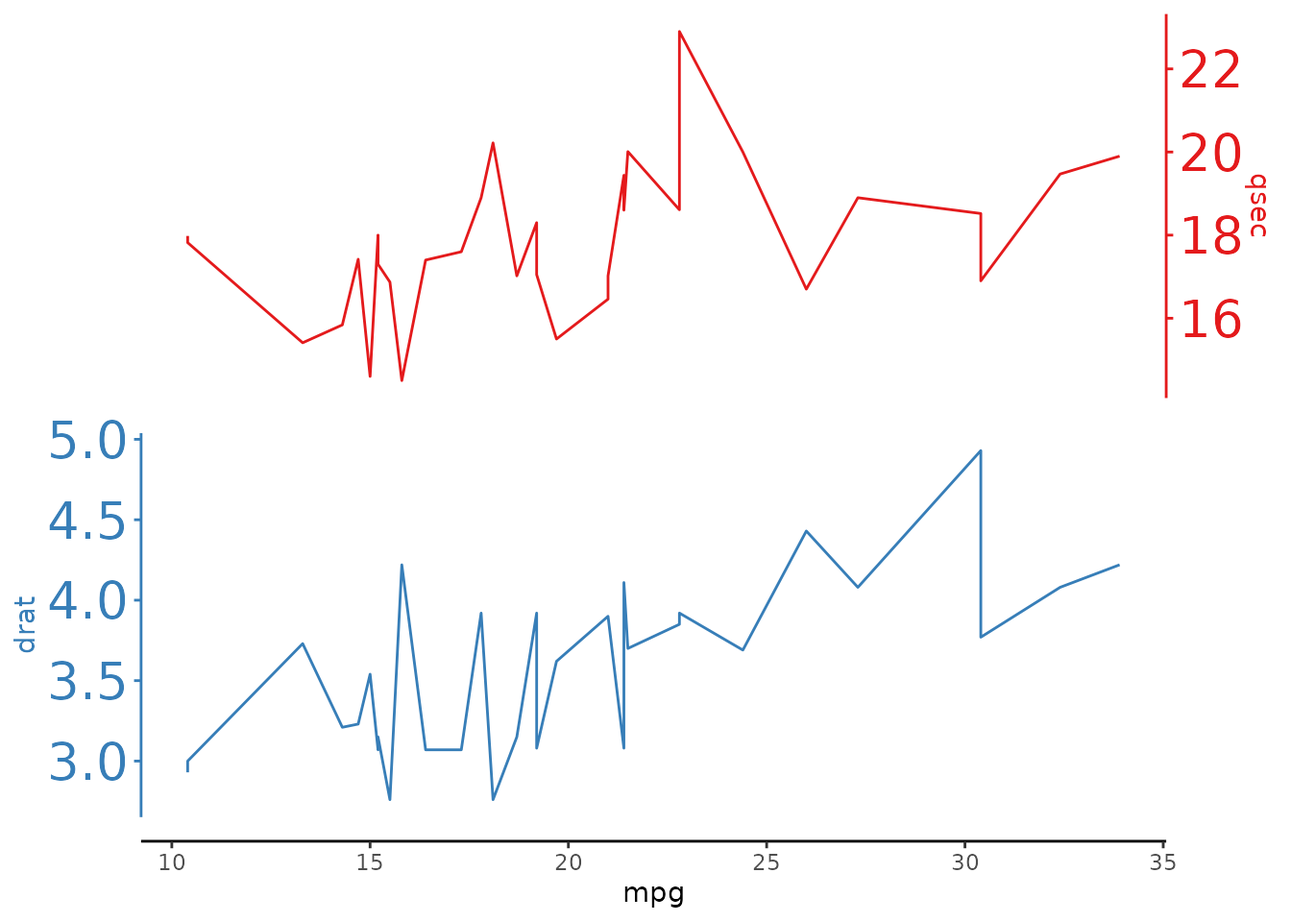
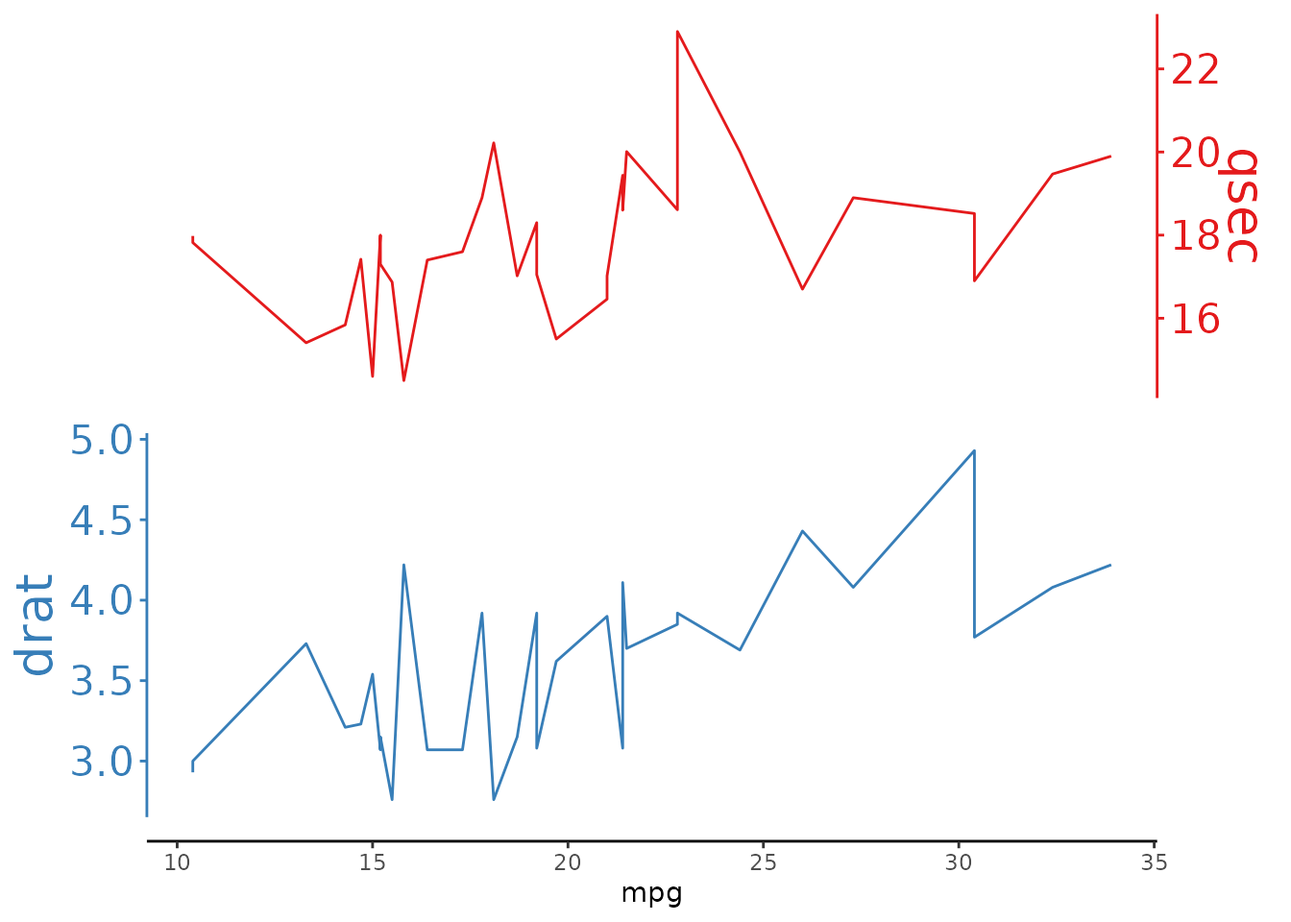
Deploying to gh-pages from @ KopfLab/ggstackplot@70ff9b34c0a76e77210bcc092c1182d34d55c98b 🚀

diff --git a/articles/features.html b/articles/features.html
@@ -26,7 +26,7 @@
     
     <a class="navbar-brand me-2" href="../index.html">ggstackplot</a>
 
-    <small class="nav-text text-muted me-auto" data-bs-toggle="tooltip" data-bs-placement="bottom" title="Released version">0.2.4</small>
+    <small class="nav-text text-muted me-auto" data-bs-toggle="tooltip" data-bs-placement="bottom" title="Released version">0.2.5</small>
 
     
     <button class="navbar-toggler" type="button" data-bs-toggle="collapse" data-bs-target="#navbar" aria-controls="navbar" aria-expanded="false" aria-label="Toggle navigation">
@@ -80,7 +80,7 @@
 <div class="sourceCode" id="cb1"><pre class="downlit sourceCode r">
 <code class="sourceCode R"><span><span class="kw"><a href="https://rdrr.io/r/base/library.html" class="external-link">library</a></span><span class="op">(</span><span class="va">ggstackplot</span><span class="op">)</span></span></code></pre></div>
 <div class="section level2">
-<h2 id="arguments">Arguments<a class="anchor" aria-label="anchor" href="#arguments"></a>
+<h2 id="main-arguments">Main Arguments<a class="anchor" aria-label="anchor" href="#main-arguments"></a>
 </h2>
 <div class="section level3">
 <h3 id="x-and-y-arguments">
@@ -334,15 +334,16 @@
 <h3 id="shared_axis_size-argument">
 <code>shared_axis_size</code> argument<a class="anchor" aria-label="anchor" href="#shared_axis_size-argument"></a>
 </h3>
-<p>The size of the shared axis needs to be adjusted depending on which
-aspect ratio is intended.</p>
+<p>The size of the shared axis often needs to be adjusted depending on
+which aspect ratio is intended. It is defined as fraction of a full
+panel.</p>
 <div class="sourceCode" id="cb23"><pre class="downlit sourceCode r">
 <code class="sourceCode R"><span><span class="va">mtcars</span> <span class="op">|&gt;</span> </span>
 <span>  <span class="fu"><a href="../reference/ggstackplot.html">ggstackplot</a></span><span class="op">(</span></span>
 <span>    x <span class="op">=</span> <span class="va">mpg</span>, y <span class="op">=</span> <span class="fu"><a href="https://rdrr.io/r/base/c.html" class="external-link">c</a></span><span class="op">(</span><span class="va">qsec</span>, <span class="va">drat</span><span class="op">)</span>,</span>
 <span>    color <span class="op">=</span> <span class="fu"><a href="https://rdrr.io/r/base/c.html" class="external-link">c</a></span><span class="op">(</span><span class="st">"#E41A1C"</span>, <span class="st">"#377EB8"</span><span class="op">)</span>,</span>
 <span>    overlap <span class="op">=</span> <span class="fl">1</span>,</span>
-<span>    <span class="co"># can be smaller because we're not actually stacking but overlapping</span></span>
+<span>    <span class="co"># can be only 10% of a plot size as we're overlapping plots</span></span>
 <span>    shared_axis_size <span class="op">=</span> <span class="fl">0.1</span></span>
 <span>  <span class="op">)</span></span></code></pre></div>
 <p><img src="features_files/figure-html/unnamed-chunk-12-1.png" width="672"></p>
@@ -360,25 +361,36 @@ aspect ratio is intended.</p>
 <span>    simplify_shared_axis <span class="op">=</span> <span class="cn">FALSE</span></span>
 <span>  <span class="op">)</span></span></code></pre></div>
 <p><img src="features_files/figure-html/unnamed-chunk-13-1.png" width="672"></p>
+<div class="sourceCode" id="cb25"><pre class="downlit sourceCode r">
+<code class="sourceCode R"><span></span>
+<span><span class="co"># also goes well with changing `both_axes`, `switch_axes` and/or `alternate_axes`</span></span>
+<span><span class="va">mtcars</span> <span class="op">|&gt;</span> </span>
+<span>  <span class="fu"><a href="../reference/ggstackplot.html">ggstackplot</a></span><span class="op">(</span></span>
+<span>    x <span class="op">=</span> <span class="va">mpg</span>, y <span class="op">=</span> <span class="fu"><a href="https://rdrr.io/r/base/c.html" class="external-link">c</a></span><span class="op">(</span><span class="va">qsec</span>, <span class="va">drat</span><span class="op">)</span>,</span>
+<span>    color <span class="op">=</span> <span class="fu"><a href="https://rdrr.io/r/base/c.html" class="external-link">c</a></span><span class="op">(</span><span class="st">"#E41A1C"</span>, <span class="st">"#377EB8"</span><span class="op">)</span>,</span>
+<span>    simplify_shared_axis <span class="op">=</span> <span class="cn">FALSE</span>,</span>
+<span>    alternate_axes <span class="op">=</span> <span class="cn">FALSE</span></span>
+<span>  <span class="op">)</span></span></code></pre></div>
+<p><img src="features_files/figure-html/unnamed-chunk-13-2.png" width="672"></p>
 </div>
-<div class="section level3">
-<h3 id="template-argument">
-<code>template</code> argument<a class="anchor" aria-label="anchor" href="#template-argument"></a>
-</h3>
+</div>
+<div class="section level2">
+<h2 id="the-template-argument">The <code>template</code> argument<a class="anchor" aria-label="anchor" href="#the-template-argument"></a>
+</h2>
 <p>This is the most powerful argument. It defines which ggplot to use as
 the template for all plots in the stack. This can be an actual plot
 (just the data will be replaced) or a ggplot that doesn’t have data
 associated yet. The possibilities are pretty much endless. Just make
 sure to always add the <code>theme_stacked_plot()</code> base theme (you
 can modify it more from there on). A few examples below:</p>
-<div class="section level4">
-<h4 id="theme-modifications">theme modifications<a class="anchor" aria-label="anchor" href="#theme-modifications"></a>
-</h4>
+<div class="section level3">
+<h3 id="theme-modifications">theme modifications<a class="anchor" aria-label="anchor" href="#theme-modifications"></a>
+</h3>
 <p>Add any modification to the overlying theme as you see fit.</p>
-<div class="sourceCode" id="cb25"><pre class="downlit sourceCode r">
+<div class="sourceCode" id="cb26"><pre class="downlit sourceCode r">
 <code class="sourceCode R"><span><span class="kw"><a href="https://rdrr.io/r/base/library.html" class="external-link">library</a></span><span class="op">(</span><span class="va"><a href="https://ggplot2.tidyverse.org" class="external-link">ggplot2</a></span><span class="op">)</span></span>
 <span></span>
-<span><span class="co"># increase y axis test sizetext size</span></span>
+<span><span class="co"># increase y axis text size</span></span>
 <span><span class="va">mtcars</span> <span class="op">|&gt;</span></span>
 <span>  <span class="fu"><a href="../reference/ggstackplot.html">ggstackplot</a></span><span class="op">(</span></span>
 <span>    x <span class="op">=</span> <span class="va">mpg</span>, y <span class="op">=</span> <span class="fu"><a href="https://rdrr.io/r/base/c.html" class="external-link">c</a></span><span class="op">(</span><span class="va">qsec</span>, <span class="va">drat</span><span class="op">)</span>,</span>
@@ -387,16 +399,36 @@ can modify it more from there on). A few examples below:</p>
 <span>      <span class="fu"><a href="https://ggplot2.tidyverse.org/reference/ggplot.html" class="external-link">ggplot</a></span><span class="op">(</span><span class="op">)</span> <span class="op">+</span> </span>
 <span>      <span class="fu"><a href="https://ggplot2.tidyverse.org/reference/geom_path.html" class="external-link">geom_line</a></span><span class="op">(</span><span class="op">)</span> <span class="op">+</span></span>
 <span>      <span class="fu"><a href="../reference/theme_stackplot.html">theme_stackplot</a></span><span class="op">(</span><span class="op">)</span> <span class="op">+</span></span>
-<span>      <span class="fu"><a href="https://ggplot2.tidyverse.org/reference/theme.html" class="external-link">theme</a></span><span class="op">(</span>axis.text.y <span class="op">=</span> <span class="fu"><a href="https://ggplot2.tidyverse.org/reference/element.html" class="external-link">element_text</a></span><span class="op">(</span>size <span class="op">=</span> <span class="fl">20</span><span class="op">)</span><span class="op">)</span></span>
+<span>      <span class="fu"><a href="https://ggplot2.tidyverse.org/reference/theme.html" class="external-link">theme</a></span><span class="op">(</span></span>
+<span>        axis.title.y <span class="op">=</span> <span class="fu"><a href="https://ggplot2.tidyverse.org/reference/element.html" class="external-link">element_text</a></span><span class="op">(</span>size <span class="op">=</span> <span class="fl">20</span><span class="op">)</span>,</span>
+<span>        axis.text.y <span class="op">=</span> <span class="fu"><a href="https://ggplot2.tidyverse.org/reference/element.html" class="external-link">element_text</a></span><span class="op">(</span>size <span class="op">=</span> <span class="fl">16</span><span class="op">)</span></span>
+<span>      <span class="op">)</span></span>
 <span>  <span class="op">)</span></span></code></pre></div>
 <p><img src="features_files/figure-html/unnamed-chunk-14-1.png" width="672"></p>
+<div class="sourceCode" id="cb27"><pre class="downlit sourceCode r">
+<code class="sourceCode R"><span></span>
+<span><span class="co"># increase the panel margins</span></span>
+<span><span class="va">mtcars</span> <span class="op">|&gt;</span></span>
+<span>  <span class="fu"><a href="../reference/ggstackplot.html">ggstackplot</a></span><span class="op">(</span></span>
+<span>    x <span class="op">=</span> <span class="va">mpg</span>, y <span class="op">=</span> <span class="fu"><a href="https://rdrr.io/r/base/c.html" class="external-link">c</a></span><span class="op">(</span><span class="va">qsec</span>, <span class="va">drat</span><span class="op">)</span>,</span>
+<span>    color <span class="op">=</span> <span class="fu"><a href="https://rdrr.io/r/base/c.html" class="external-link">c</a></span><span class="op">(</span><span class="st">"#E41A1C"</span>, <span class="st">"#377EB8"</span><span class="op">)</span>,</span>
+<span>    template <span class="op">=</span> </span>
+<span>      <span class="fu"><a href="https://ggplot2.tidyverse.org/reference/ggplot.html" class="external-link">ggplot</a></span><span class="op">(</span><span class="op">)</span> <span class="op">+</span> </span>
+<span>      <span class="fu"><a href="https://ggplot2.tidyverse.org/reference/geom_path.html" class="external-link">geom_line</a></span><span class="op">(</span><span class="op">)</span> <span class="op">+</span></span>
+<span>      <span class="fu"><a href="../reference/theme_stackplot.html">theme_stackplot</a></span><span class="op">(</span><span class="op">)</span> <span class="op">+</span></span>
+<span>      <span class="fu"><a href="https://ggplot2.tidyverse.org/reference/theme.html" class="external-link">theme</a></span><span class="op">(</span></span>
+<span>        <span class="co"># increase left margin to 20% and top/bottom margins to 10%</span></span>
+<span>        plot.margin <span class="op">=</span> <span class="fu"><a href="https://ggplot2.tidyverse.org/reference/element.html" class="external-link">margin</a></span><span class="op">(</span>l <span class="op">=</span> <span class="fl">0.2</span>, t <span class="op">=</span> <span class="fl">0.1</span>, b <span class="op">=</span> <span class="fl">0.1</span>, unit <span class="op">=</span> <span class="st">"npc"</span><span class="op">)</span></span>
+<span>      <span class="op">)</span></span>
+<span>  <span class="op">)</span></span></code></pre></div>
+<p><img src="features_files/figure-html/unnamed-chunk-14-2.png" width="672"></p>
 </div>
-<div class="section level4">
-<h4 id="custom-geom-data">custom geom data<a class="anchor" aria-label="anchor" href="#custom-geom-data"></a>
-</h4>
-<div class="sourceCode" id="cb26"><pre class="downlit sourceCode r">
+<div class="section level3">
+<h3 id="custom-geom-data">custom geom data<a class="anchor" aria-label="anchor" href="#custom-geom-data"></a>
+</h3>
+<div class="sourceCode" id="cb28"><pre class="downlit sourceCode r">
 <code class="sourceCode R"><span><span class="co"># use different geoms for different panels</span></span>
-<span><span class="co"># you can refer to y-stack panel variables with `.yvar`</span></span>
+<span><span class="co"># you can refer to y-stack panel variables with `.yvar` and x-stack panel variables with `.xvar`</span></span>
 <span><span class="va">mtcars</span> <span class="op">|&gt;</span></span>
 <span>  <span class="fu"><a href="../reference/ggstackplot.html">ggstackplot</a></span><span class="op">(</span></span>
 <span>    x <span class="op">=</span> <span class="va">mpg</span>, y <span class="op">=</span> <span class="fu"><a href="https://rdrr.io/r/base/c.html" class="external-link">c</a></span><span class="op">(</span><span class="va">qsec</span>, <span class="va">drat</span><span class="op">)</span>,</span>
@@ -409,10 +441,10 @@ can modify it more from there on). A few examples below:</p>
 <span>  <span class="op">)</span></span></code></pre></div>
 <p><img src="features_files/figure-html/unnamed-chunk-15-1.png" width="672"></p>
 </div>
-<div class="section level4">
-<h4 id="additional-plot-elements">additional plot elements<a class="anchor" aria-label="anchor" href="#additional-plot-elements"></a>
-</h4>
-<div class="sourceCode" id="cb27"><pre class="downlit sourceCode r">
+<div class="section level3">
+<h3 id="additional-plot-elements">additional plot elements<a class="anchor" aria-label="anchor" href="#additional-plot-elements"></a>
+</h3>
+<div class="sourceCode" id="cb29"><pre class="downlit sourceCode r">
 <code class="sourceCode R"><span><span class="co"># add some vertical bars</span></span>
 <span><span class="va">mtcars</span> <span class="op">|&gt;</span></span>
 <span>  <span class="fu"><a href="../reference/ggstackplot.html">ggstackplot</a></span><span class="op">(</span></span>
@@ -427,11 +459,11 @@ can modify it more from there on). A few examples below:</p>
 <span>  <span class="op">)</span></span></code></pre></div>
 <p><img src="features_files/figure-html/unnamed-chunk-16-1.png" width="672"></p>
 </div>
-<div class="section level4">
-<h4 id="axis-modifications">axis modifications<a class="anchor" aria-label="anchor" href="#axis-modifications"></a>
-</h4>
-<div class="sourceCode" id="cb28"><pre class="downlit sourceCode r">
-<code class="sourceCode R"><span><span class="co"># secondary x axis (can be the same with dup_axis() or more specific, e.g.:)</span></span>
+<div class="section level3">
+<h3 id="axis-modifications">axis modifications<a class="anchor" aria-label="anchor" href="#axis-modifications"></a>
+</h3>
+<div class="sourceCode" id="cb30"><pre class="downlit sourceCode r">
+<code class="sourceCode R"><span><span class="co"># add secondary x axis</span></span>
 <span><span class="va">mtcars</span> <span class="op">|&gt;</span></span>
 <span>  <span class="fu"><a href="../reference/ggstackplot.html">ggstackplot</a></span><span class="op">(</span></span>
 <span>    x <span class="op">=</span> <span class="va">mpg</span>, y <span class="op">=</span> <span class="fu"><a href="https://rdrr.io/r/base/c.html" class="external-link">c</a></span><span class="op">(</span><span class="va">qsec</span>, <span class="va">drat</span><span class="op">)</span>,</span>
@@ -442,6 +474,9 @@ can modify it more from there on). A few examples below:</p>
 <span>      <span class="fu"><a href="https://ggplot2.tidyverse.org/reference/ggplot.html" class="external-link">ggplot</a></span><span class="op">(</span><span class="op">)</span> <span class="op">+</span> </span>
 <span>      <span class="fu"><a href="https://ggplot2.tidyverse.org/reference/geom_path.html" class="external-link">geom_line</a></span><span class="op">(</span><span class="op">)</span> <span class="op">+</span></span>
 <span>      <span class="fu"><a href="https://ggplot2.tidyverse.org/reference/scale_continuous.html" class="external-link">scale_x_continuous</a></span><span class="op">(</span></span>
+<span>        <span class="co"># change axis name</span></span>
+<span>        name <span class="op">=</span> <span class="st">"this is my elaborate\nmpg axis"</span>,</span>
+<span>        <span class="co"># this can be the same with dup_axis() or as here have a transformed axis</span></span>
 <span>        sec.axis <span class="op">=</span> <span class="fu"><a href="https://ggplot2.tidyverse.org/reference/sec_axis.html" class="external-link">sec_axis</a></span><span class="op">(</span></span>
 <span>          trans <span class="op">=</span> <span class="va">sqrt</span>, </span>
 <span>          name <span class="op">=</span> <span class="fu"><a href="https://rdrr.io/r/base/expression.html" class="external-link">expression</a></span><span class="op">(</span><span class="fu"><a href="https://rdrr.io/r/base/MathFun.html" class="external-link">sqrt</a></span><span class="op">(</span><span class="va">mpg</span><span class="op">)</span><span class="op">)</span>, </span>
@@ -452,12 +487,30 @@ can modify it more from there on). A few examples below:</p>
 <span>  <span class="op">)</span></span></code></pre></div>
 <p><img src="features_files/figure-html/unnamed-chunk-17-1.png" width="672"></p>
 </div>
+<div class="section level3">
+<h3 id="additional-aesthetics">additional aesthetics<a class="anchor" aria-label="anchor" href="#additional-aesthetics"></a>
+</h3>
+<div class="sourceCode" id="cb31"><pre class="downlit sourceCode r">
+<code class="sourceCode R"><span><span class="co"># add aesthetics to the plot</span></span>
+<span><span class="va">mtcars</span> <span class="op">|&gt;</span></span>
+<span>  <span class="fu"><a href="../reference/ggstackplot.html">ggstackplot</a></span><span class="op">(</span></span>
+<span>    x <span class="op">=</span> <span class="va">mpg</span>,  y <span class="op">=</span> <span class="fu"><a href="https://rdrr.io/r/base/c.html" class="external-link">c</a></span><span class="op">(</span><span class="va">wt</span>, <span class="va">qsec</span>, <span class="va">drat</span><span class="op">)</span>,</span>
+<span>    alternate_axes <span class="op">=</span> <span class="cn">FALSE</span>,</span>
+<span>    template <span class="op">=</span> </span>
+<span>      <span class="fu"><a href="https://ggplot2.tidyverse.org/reference/ggplot.html" class="external-link">ggplot</a></span><span class="op">(</span><span class="op">)</span> <span class="op">+</span></span>
+<span>      <span class="fu"><a href="https://ggplot2.tidyverse.org/reference/aes.html" class="external-link">aes</a></span><span class="op">(</span>color <span class="op">=</span> <span class="fu"><a href="https://rdrr.io/r/base/factor.html" class="external-link">factor</a></span><span class="op">(</span><span class="va">cyl</span><span class="op">)</span>, linetype <span class="op">=</span> <span class="fu"><a href="https://rdrr.io/r/base/factor.html" class="external-link">factor</a></span><span class="op">(</span><span class="va">cyl</span><span class="op">)</span>, shape <span class="op">=</span> <span class="fu"><a href="https://rdrr.io/r/base/factor.html" class="external-link">factor</a></span><span class="op">(</span><span class="va">cyl</span><span class="op">)</span><span class="op">)</span> <span class="op">+</span></span>
+<span>      <span class="fu"><a href="https://ggplot2.tidyverse.org/reference/geom_path.html" class="external-link">geom_line</a></span><span class="op">(</span><span class="op">)</span> <span class="op">+</span></span>
+<span>      <span class="fu"><a href="https://ggplot2.tidyverse.org/reference/geom_point.html" class="external-link">geom_point</a></span><span class="op">(</span>size <span class="op">=</span> <span class="fl">3</span><span class="op">)</span> <span class="op">+</span></span>
+<span>      <span class="fu"><a href="https://ggplot2.tidyverse.org/reference/ggtheme.html" class="external-link">theme_bw</a></span><span class="op">(</span><span class="op">)</span> <span class="op">+</span></span>
+<span>      <span class="fu"><a href="../reference/theme_stackplot.html">theme_stackplot</a></span><span class="op">(</span><span class="op">)</span> </span>
+<span>  <span class="op">)</span></span></code></pre></div>
+<p><img src="features_files/figure-html/unnamed-chunk-18-1.png" width="672"></p>
 </div>
 </div>
 <div class="section level2">
 <h2 id="advanced-features">Advanced features<a class="anchor" aria-label="anchor" href="#advanced-features"></a>
 </h2>
-<div class="sourceCode" id="cb29"><pre class="downlit sourceCode r">
+<div class="sourceCode" id="cb32"><pre class="downlit sourceCode r">
 <code class="sourceCode R"><span><span class="co"># TODO: add example of custom prepare_stackplot, then modify, then assemble_stackpllot</span></span></code></pre></div>
 </div>
   </main><aside class="col-md-3"><nav id="toc"><h2>On this page</h2>

diff --git a/authors.html b/authors.html
@@ -10,7 +10,7 @@
     
     <a class="navbar-brand me-2" href="index.html">ggstackplot</a>
 
-    <small class="nav-text text-muted me-auto" data-bs-toggle="tooltip" data-bs-placement="bottom" title="Released version">0.2.4</small>
+    <small class="nav-text text-muted me-auto" data-bs-toggle="tooltip" data-bs-placement="bottom" title="Released version">0.2.5</small>
 
     
     <button class="navbar-toggler" type="button" data-bs-toggle="collapse" data-bs-target="#navbar" aria-controls="navbar" aria-expanded="false" aria-label="Toggle navigation">
@@ -73,13 +73,13 @@
 
       <p>Kopf S, Caro T, McFarlin J, Raberg J (2023).
 <em>ggstackplot: Create overlapping stacked ggplots</em>.
-R package version 0.2.4. 
+R package version 0.2.5. 
 </p>
       <pre>@Manual{,
   title = {ggstackplot: Create overlapping stacked ggplots},
   author = {Sebastian Kopf and Tristan Caro and Jamie McFarlin and Jon Raberg},
   year = {2023},
-  note = {R package version 0.2.4},
+  note = {R package version 0.2.5},
 }</pre>
     </div>
   </main><aside class="col-md-3"><nav id="toc"><h2>On this page</h2>

diff --git a/reference/tidyeval.html b/reference/tidyeval.html
@@ -160,7 +160,7 @@ because it throws an error if the input is not a name as expected.
     
     <a class="navbar-brand me-2" href="../index.html">ggstackplot</a>
 
-    <small class="nav-text text-muted me-auto" data-bs-toggle="tooltip" data-bs-placement="bottom" title="Released version">0.2.4</small>
+    <small class="nav-text text-muted me-auto" data-bs-toggle="tooltip" data-bs-placement="bottom" title="Released version">0.2.5</small>
 
     
     <button class="navbar-toggler" type="button" data-bs-toggle="collapse" data-bs-target="#navbar" aria-controls="navbar" aria-expanded="false" aria-label="Toggle navigation">

diff --git a/404.html b/404.html
@@ -24,7 +24,7 @@
     
     <a class="navbar-brand me-2" href="https://ggstackplot.kopflab.org/index.html">ggstackplot</a>
 
-    <small class="nav-text text-muted me-auto" data-bs-toggle="tooltip" data-bs-placement="bottom" title="Released version">0.2.4</small>
+    <small class="nav-text text-muted me-auto" data-bs-toggle="tooltip" data-bs-placement="bottom" title="Released version">0.2.5</small>
 
     
     <button class="navbar-toggler" type="button" data-bs-toggle="collapse" data-bs-target="#navbar" aria-controls="navbar" aria-expanded="false" aria-label="Toggle navigation">

diff --git a/articles/examples.html b/articles/examples.html
@@ -26,7 +26,7 @@
     
     <a class="navbar-brand me-2" href="../index.html">ggstackplot</a>
 
-    <small class="nav-text text-muted me-auto" data-bs-toggle="tooltip" data-bs-placement="bottom" title="Released version">0.2.4</small>
+    <small class="nav-text text-muted me-auto" data-bs-toggle="tooltip" data-bs-placement="bottom" title="Released version">0.2.5</small>
 
     
     <button class="navbar-toggler" type="button" data-bs-toggle="collapse" data-bs-target="#navbar" aria-controls="navbar" aria-expanded="false" aria-label="Toggle navigation">

diff --git a/articles/index.html b/articles/index.html
@@ -10,7 +10,7 @@
     
     <a class="navbar-brand me-2" href="../index.html">ggstackplot</a>
 
-    <small class="nav-text text-muted me-auto" data-bs-toggle="tooltip" data-bs-placement="bottom" title="Released version">0.2.4</small>
+    <small class="nav-text text-muted me-auto" data-bs-toggle="tooltip" data-bs-placement="bottom" title="Released version">0.2.5</small>
 
     
     <button class="navbar-toggler" type="button" data-bs-toggle="collapse" data-bs-target="#navbar" aria-controls="navbar" aria-expanded="false" aria-label="Toggle navigation">

diff --git a/news/index.html b/news/index.html
@@ -10,7 +10,7 @@
     
     <a class="navbar-brand me-2" href="../index.html">ggstackplot</a>
 
-    <small class="nav-text text-muted me-auto" data-bs-toggle="tooltip" data-bs-placement="bottom" title="Released version">0.2.4</small>
+    <small class="nav-text text-muted me-auto" data-bs-toggle="tooltip" data-bs-placement="bottom" title="Released version">0.2.5</small>
 
     
     <button class="navbar-toggler" type="button" data-bs-toggle="collapse" data-bs-target="#navbar" aria-controls="navbar" aria-expanded="false" aria-label="Toggle navigation">

diff --git a/reference/ggstackplot-package.html b/reference/ggstackplot-package.html
@@ -10,7 +10,7 @@
     
     <a class="navbar-brand me-2" href="../index.html">ggstackplot</a>
 
-    <small class="nav-text text-muted me-auto" data-bs-toggle="tooltip" data-bs-placement="bottom" title="Released version">0.2.4</small>
+    <small class="nav-text text-muted me-auto" data-bs-toggle="tooltip" data-bs-placement="bottom" title="Released version">0.2.5</small>
 
     
     <button class="navbar-toggler" type="button" data-bs-toggle="collapse" data-bs-target="#navbar" aria-controls="navbar" aria-expanded="false" aria-label="Toggle navigation">

diff --git a/reference/ggstackplot.html b/reference/ggstackplot.html
@@ -10,7 +10,7 @@
     
     <a class="navbar-brand me-2" href="../index.html">ggstackplot</a>
 
-    <small class="nav-text text-muted me-auto" data-bs-toggle="tooltip" data-bs-placement="bottom" title="Released version">0.2.4</small>
+    <small class="nav-text text-muted me-auto" data-bs-toggle="tooltip" data-bs-placement="bottom" title="Released version">0.2.5</small>
 
     
     <button class="navbar-toggler" type="button" data-bs-toggle="collapse" data-bs-target="#navbar" aria-controls="navbar" aria-expanded="false" aria-label="Toggle navigation">

diff --git a/reference/index.html b/reference/index.html
@@ -10,7 +10,7 @@
     
     <a class="navbar-brand me-2" href="../index.html">ggstackplot</a>
 
-    <small class="nav-text text-muted me-auto" data-bs-toggle="tooltip" data-bs-placement="bottom" title="Released version">0.2.4</small>
+    <small class="nav-text text-muted me-auto" data-bs-toggle="tooltip" data-bs-placement="bottom" title="Released version">0.2.5</small>
 
     
     <button class="navbar-toggler" type="button" data-bs-toggle="collapse" data-bs-target="#navbar" aria-controls="navbar" aria-expanded="false" aria-label="Toggle navigation">

diff --git a/reference/theme_stackplot.html b/reference/theme_stackplot.html
@@ -10,7 +10,7 @@
     
     <a class="navbar-brand me-2" href="../index.html">ggstackplot</a>
 
-    <small class="nav-text text-muted me-auto" data-bs-toggle="tooltip" data-bs-placement="bottom" title="Released version">0.2.4</small>
+    <small class="nav-text text-muted me-auto" data-bs-toggle="tooltip" data-bs-placement="bottom" title="Released version">0.2.5</small>
 
     
     <button class="navbar-toggler" type="button" data-bs-toggle="collapse" data-bs-target="#navbar" aria-controls="navbar" aria-expanded="false" aria-label="Toggle navigation">

diff --git a/CODE_OF_CONDUCT.html b/CODE_OF_CONDUCT.html
@@ -10,7 +10,7 @@
     
     <a class="navbar-brand me-2" href="index.html">ggstackplot</a>
 
-    <small class="nav-text text-muted me-auto" data-bs-toggle="tooltip" data-bs-placement="bottom" title="Released version">0.2.4</small>
+    <small class="nav-text text-muted me-auto" data-bs-toggle="tooltip" data-bs-placement="bottom" title="Released version">0.2.5</small>
 
     
     <button class="navbar-toggler" type="button" data-bs-toggle="collapse" data-bs-target="#navbar" aria-controls="navbar" aria-expanded="false" aria-label="Toggle navigation">
